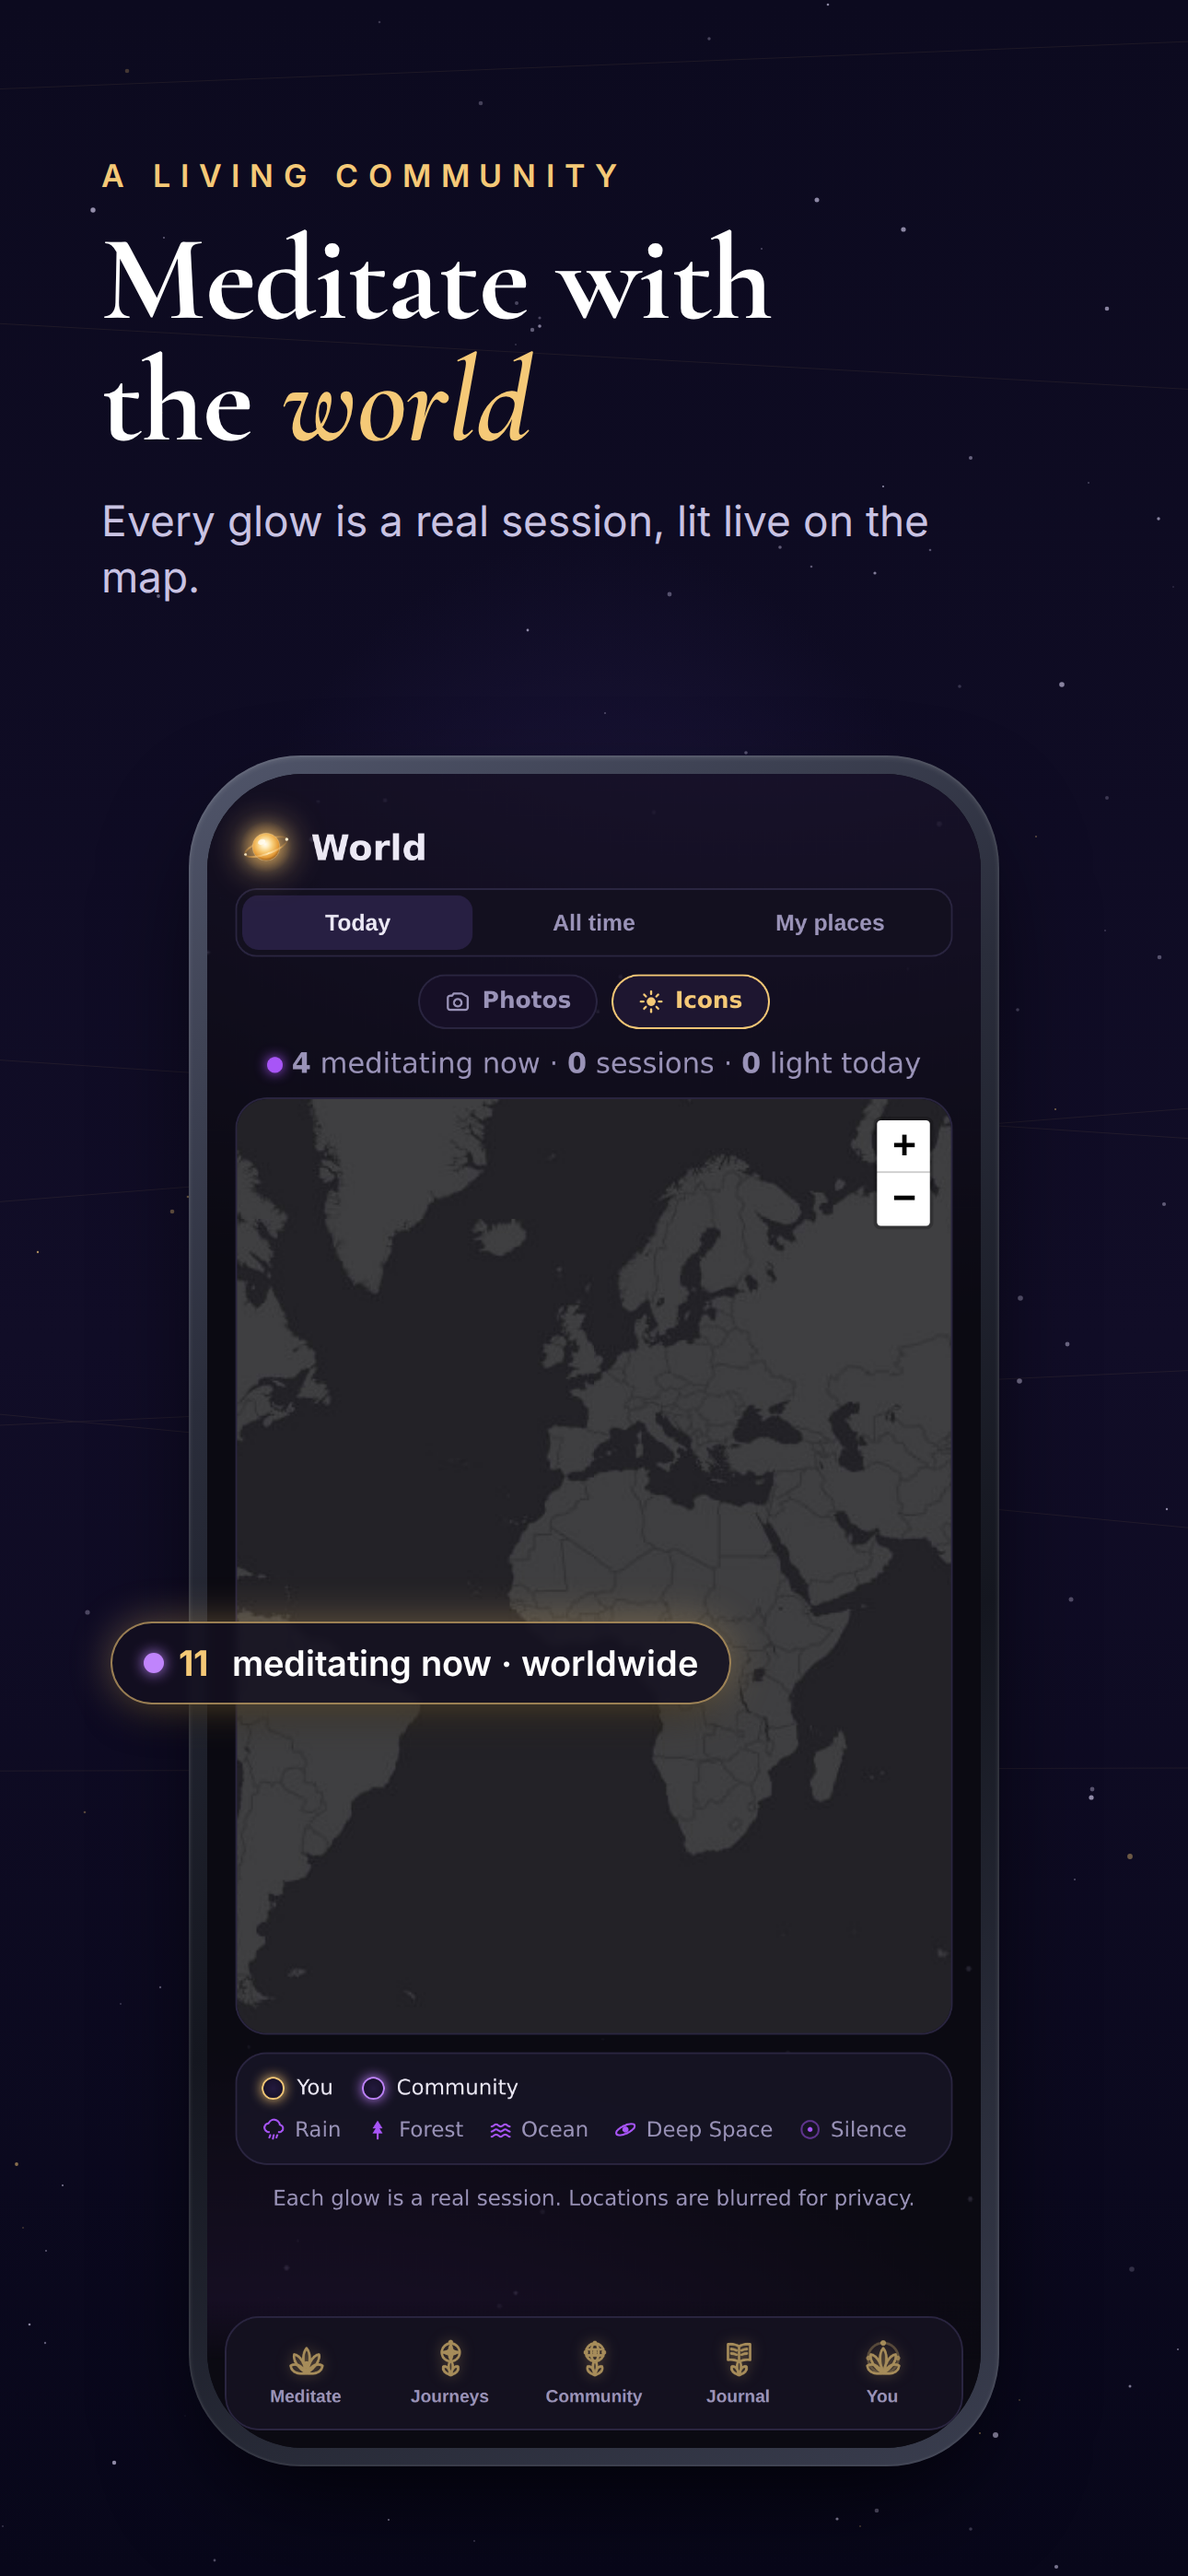
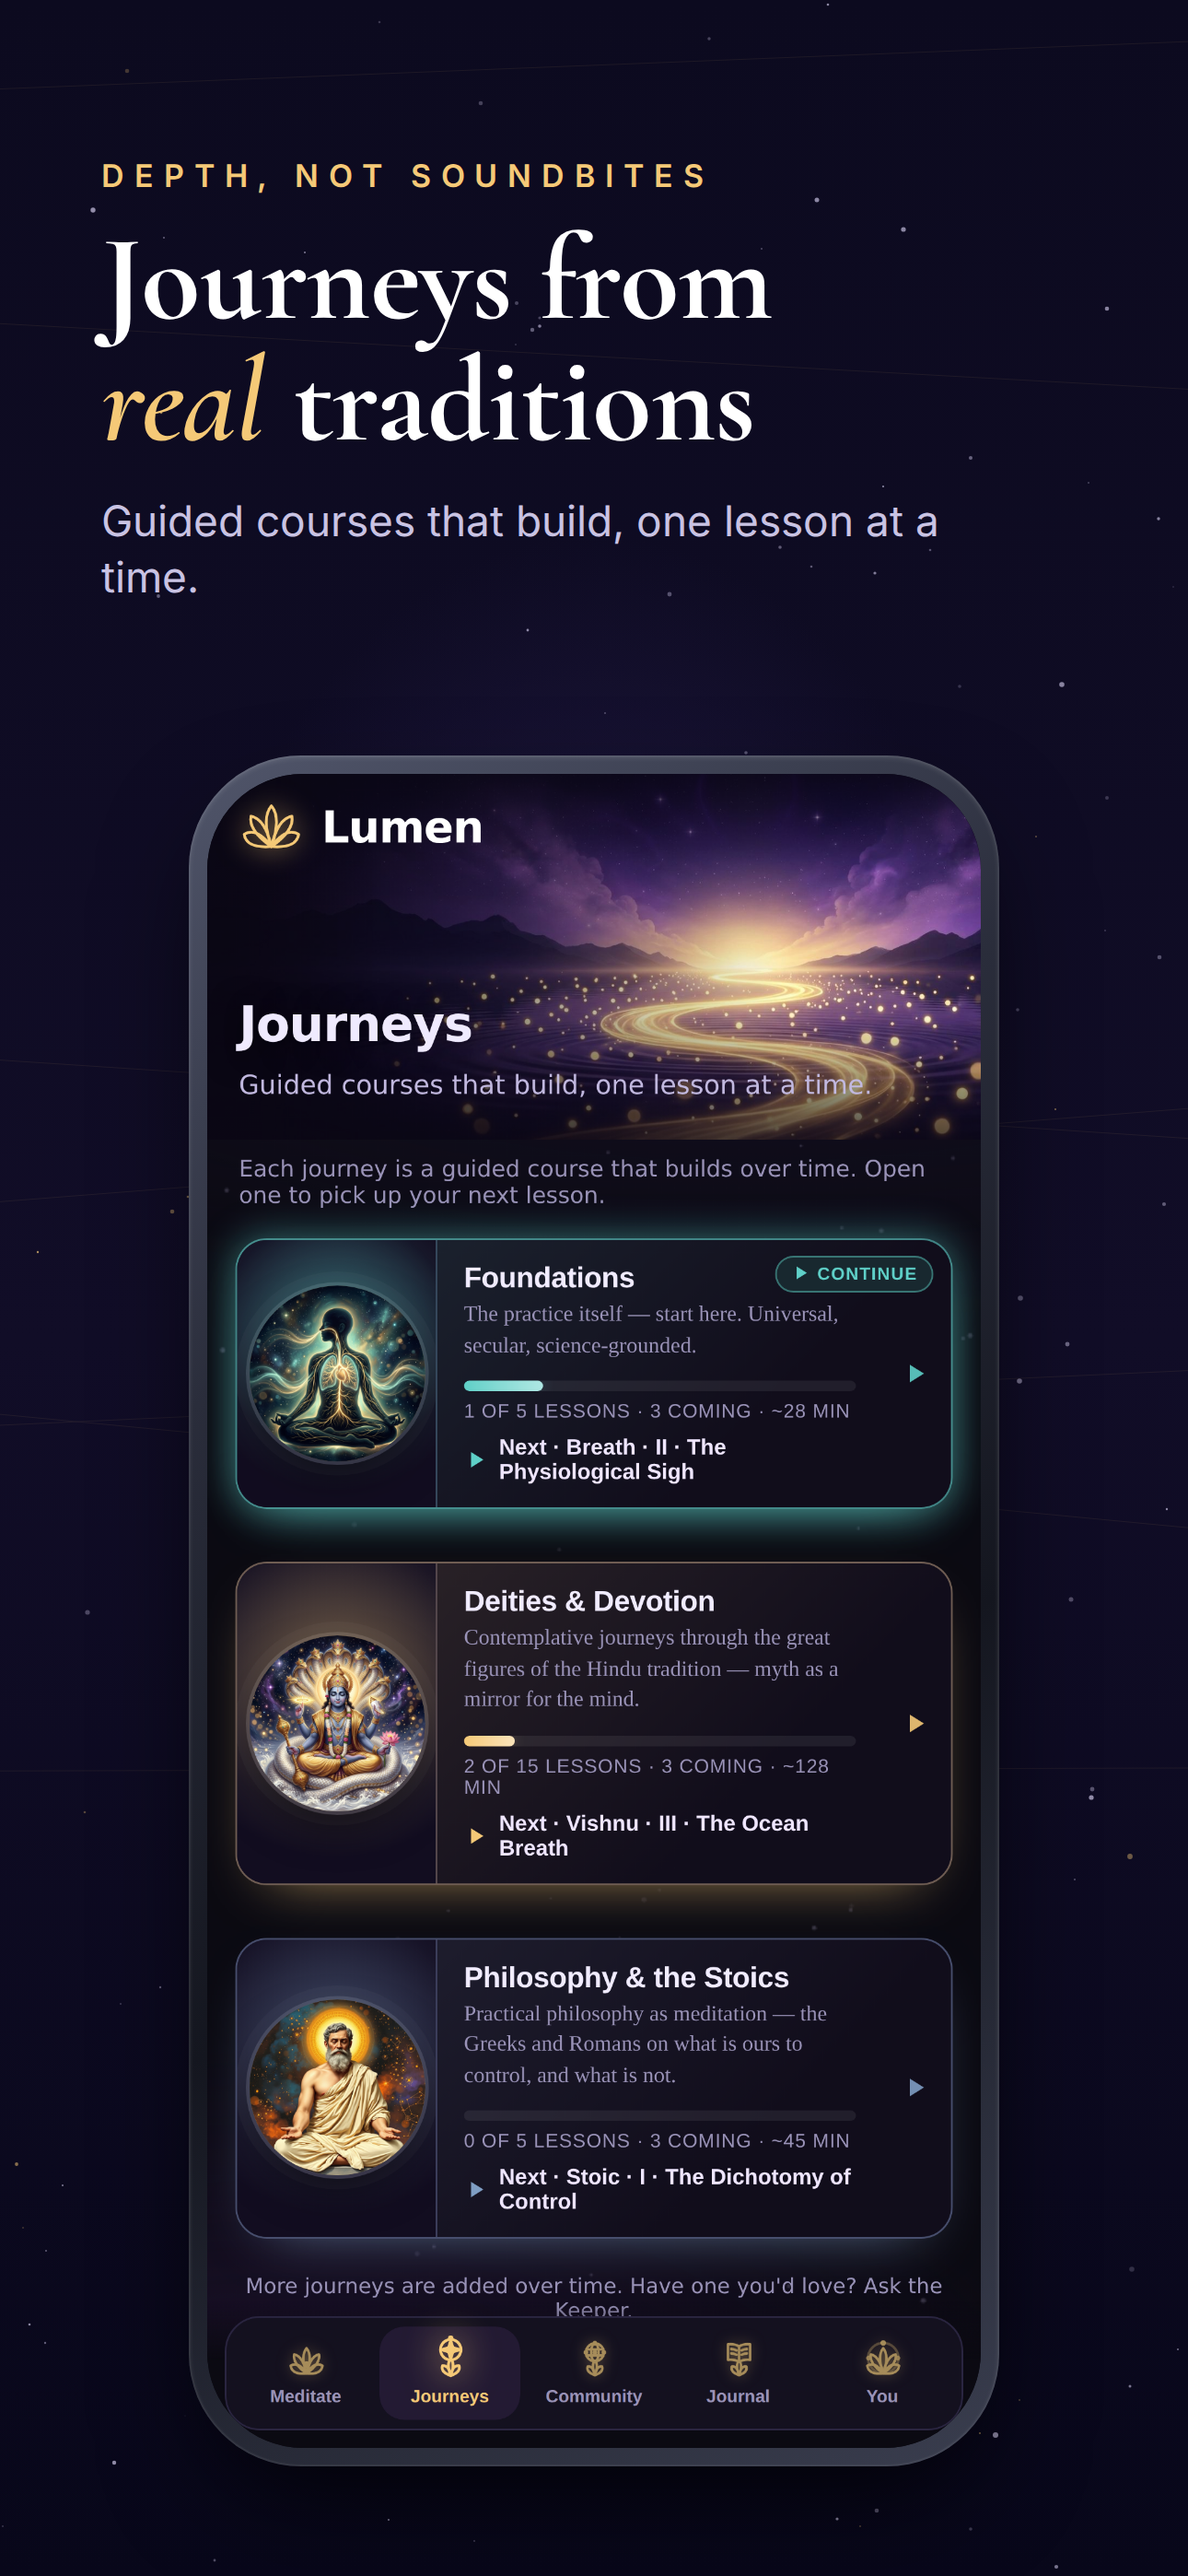
lumen: App Store screenshots — swap frame 2 to the Journeys catalog, drop the journey-lesson frame (now 7 frames); re-uploaded to ASC 1.0.4

diff --git a/lumen/appstore/screenshots-v3/template.html b/lumen/appstore/screenshots-v3/template.html
@@ -52,13 +52,12 @@
 <script>
 const FRAMES = {
   1:{img:'ui/home.png',eyebrow:'Lumen',head:'Meditation<br>you can <em>see</em>',sub:'Every breath adds light to a living world.',hero:true},
-  2:{img:'ui/map.png',eyebrow:'A living community',head:'Meditate with<br>the <em>world</em>',sub:'Every glow is a real session, lit live on the map.',callout:{t:'<span class="dot"></span> <span class="g">11</span>&nbsp;meditating now · worldwide',x:120,y:1760}},
+  2:{img:'ui/journeyscat.png',eyebrow:'Depth, not soundbites',head:'Journeys from<br><em>real</em> traditions',sub:'Guided courses that build, one lesson at a time.'},
   3:{img:'ui/journalwrite.png',eyebrow:'Journal, reimagined',head:'A journal<br>you will <em>keep</em>',sub:'A calm, timed page — write, speak, or photograph your handwritten entry.'},
   4:{img:'ui/community.png',eyebrow:'You are not alone',head:'Letters from<br><em>real</em> people',sub:'Read what other meditators are moving through — and write back.'},
   5:{img:'ui/mandala.png',eyebrow:'Your practice, kept',head:'Watch your<br>practice <em>bloom</em>',sub:'Each milestone adds a petal to your mandala.'},
   6:{img:'ui/leagues.png',eyebrow:'Showing up is rewarded',head:'Earn light.<br>Climb the <em>leagues</em>',sub:'Friendly weekly tiers, from Ember to Supernova.'},
-  7:{img:'ui/journey.png',eyebrow:'Depth, not soundbites',head:'Journeys from<br><em>real</em> traditions',sub:'Narrated courses that build, lesson by lesson.'},
-  8:{brand:true}
+  7:{brand:true}
 };
 function device(img){return '<div class="device"><div class="screen"><img src="'+img+'"></div></div>';}
 function render(){
